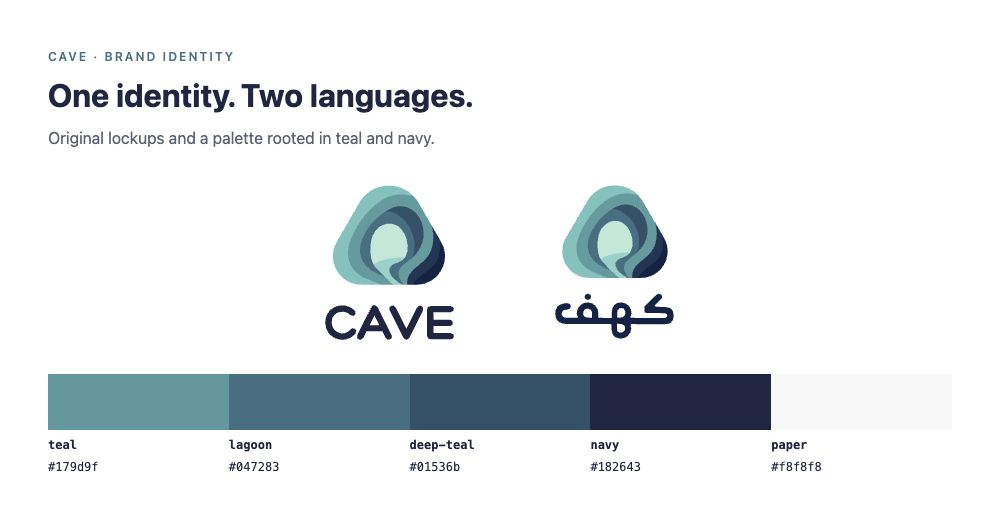
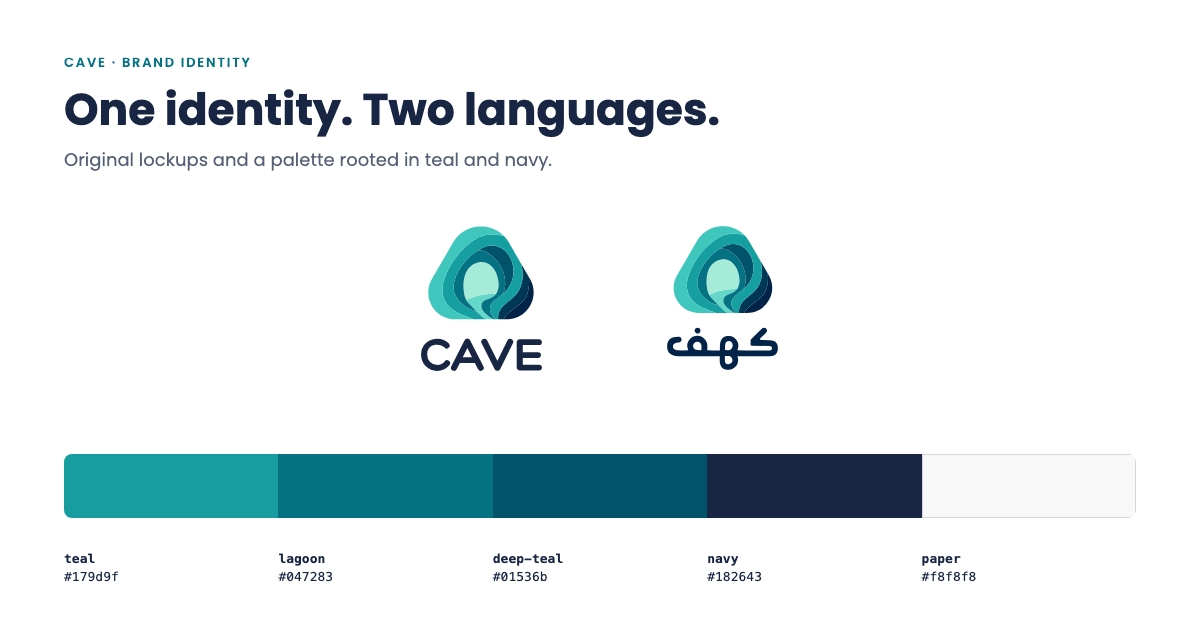
fix(brand): keep Hero out of deploys, add CSP and social card, fix /ar URLs
- firebase.json: exclude assets/fonts/Hero.* so the unlicensed font can never be
  published (it was publicly downloadable), and send a Content-Security-Policy.
- Move the Hero display-font stack into brand.css; add scripts/sync-from-design.mjs
  (with --check) to keep tokens.css and components.css in step with the design system.
- Use /ar (no trailing slash) in canonical, hreflang, nav and sitemap; /ar/ redirected.
- Add Open Graph and Twitter image tags with a 1200x630 social card.
- Re-render the README overview image from the original SVGs and real token colours;
  the old image showed desaturated colours that did not match the palette.

diff --git a/ar/index.html b/ar/index.html
@@ -5,12 +5,21 @@
 <meta name="viewport" content="width=device-width,initial-scale=1">
 <title>هوية كهف | الشعارات والألوان والخطوط والقواعد</title>
 <meta name="description" content="شعار كهف ورمزه وأيقوناته ونقوشه وألوانه، مع قواعد استخدامها، بالعربية والإنجليزية.">
-<link rel="canonical" href="https://brand.cave.technology/ar/">
+<link rel="canonical" href="https://brand.cave.technology/ar">
 <link rel="alternate" hreflang="en" href="https://brand.cave.technology/">
-<link rel="alternate" hreflang="ar" href="https://brand.cave.technology/ar/">
+<link rel="alternate" hreflang="ar" href="https://brand.cave.technology/ar">
 <link rel="alternate" hreflang="x-default" href="https://brand.cave.technology/">
 <meta property="og:title" content="هوية كهف | الشعارات والألوان والخطوط والقواعد">
 <meta property="og:description" content="شعار كهف ورمزه وأيقوناته ونقوشه وألوانه، مع قواعد استخدامها، بالعربية والإنجليزية.">
+<meta property="og:type" content="website">
+<meta property="og:url" content="https://brand.cave.technology/ar">
+<meta property="og:locale" content="ar">
+<meta property="og:image" content="https://brand.cave.technology/assets/social/cave-brand-og.png">
+<meta property="og:image:width" content="1200">
+<meta property="og:image:height" content="630">
+<meta property="og:image:alt" content="شعار كهف بالعربية والإنجليزية فوق لوحة ألوان الفيروزي واللازوردي والفيروزي الداكن والكحلي والورقي">
+<meta name="twitter:card" content="summary_large_image">
+<meta name="twitter:image" content="https://brand.cave.technology/assets/social/cave-brand-og.png">
 <meta name="theme-color" content="#182643">
 <link rel="icon" type="image/svg+xml" href="/assets/logos/cave-symbol-color.svg">
 <script src="/assets/js/theme.js?v=2"></script>
@@ -39,7 +48,7 @@
 </div></header>
 <main class="wrap" id="main">
 <div class="hero"><h1>هوية كهف</h1><p>شعار كهف ورمزه وألوانه وقواعد استخدامها. الملفات هنا للإشارة إلى كهف. أما البرمجيات المستخدمة في بناء الواجهات فمكانها موقع نظام التصميم.</p>
-<div class="actions"><a class="cv-btn cv-btn--primary cv-btn--lg" href="/kit/cave-brand-kit.zip" download>حمّل حزمة الهوية</a><a class="cv-btn cv-btn--secondary cv-btn--lg" href="https://design.cave.technology/ar/">نظام التصميم</a></div></div>
+<div class="actions"><a class="cv-btn cv-btn--primary cv-btn--lg" href="/kit/cave-brand-kit.zip" download>حمّل حزمة الهوية</a><a class="cv-btn cv-btn--secondary cv-btn--lg" href="https://design.cave.technology/ar">نظام التصميم</a></div></div>
 <section id="logos"><h2>الشعارات</h2><p class="lead">استخدم الملفات كما هي. النسخة الملوّنة على الأبيض أو الورقي فقط، والنسخة البيضاء على التركواز أو الكحلي أو الفحمي. استخدم الشعار العربي على الأسطح العربية والإنجليزي على الأسطح الإنجليزية.</p><ul class="grounds"><li class="ground g-white"><img src="/assets/logos/cave-logo-en-color-compact.svg" alt="إنجليزي، ملوّن" height="120"><small>إنجليزي، ملوّن</small><a href="/assets/logos/cave-logo-en-color-compact.svg" download>نزّل SVG</a></li><li class="ground g-navy"><img src="/assets/logos/cave-logo-en-white-compact.svg" alt="إنجليزي، أبيض" height="120"><small>إنجليزي، أبيض</small><a href="/assets/logos/cave-logo-en-white-compact.svg" download>نزّل SVG</a></li><li class="ground g-paper"><img src="/assets/logos/cave-logo-ar-color-compact.svg" alt="عربي، ملوّن" height="120"><small>عربي، ملوّن</small><a href="/assets/logos/cave-logo-ar-color-compact.svg" download>نزّل SVG</a></li><li class="ground g-charcoal"><img src="/assets/logos/cave-logo-ar-white-compact.svg" alt="عربي، أبيض" height="120"><small>عربي، أبيض</small><a href="/assets/logos/cave-logo-ar-white-compact.svg" download>نزّل SVG</a></li><li class="ground g-white"><img src="/assets/logos/cave-symbol-color.svg" alt="الرمز، ملوّن" height="120"><small>الرمز، ملوّن</small><a href="/assets/logos/cave-symbol-color.svg" download>نزّل SVG</a></li><li class="ground g-teal"><img src="/assets/logos/cave-symbol-white.svg" alt="الرمز، أبيض" height="120"><small>الرمز، أبيض</small><a href="/assets/logos/cave-symbol-white.svg" download>نزّل SVG</a></li></ul></section>
 <section id="rules"><h2>قواعد استخدام الشعار</h2><div class="cols"><div><h3>افعل</h3><ul class="rules do"><li>استخدم الملفات كما هي. الكلمة الشعارية خطّ مرسوم يدويًا ومحوّل إلى خطوط خارجية.</li><li>ضع الشعار الملوّن على الأبيض أو الورقي فقط، وضع الشعار الأبيض على التركواز أو الكحلي أو الفحمي فقط.</li><li>اترك حوله مساحة كافية. لا تحدد الهوية مساحة فراغ ثابتة ولا حدًّا أدنى للحجم، فاسأل قبل أن تحدد أيًّا منهما.</li><li>الرمز وحده للصور الشخصية والأيقونات.</li></ul></div><div><h3>لا تفعل</h3><ul class="rules dont"><li>أن تعيد كتابة الاسم بخط، أو ترسم الرمز من جديد، أو تغيّر لون أي طبقة.</li><li>أن تضيف ظلًّا أو تدرّجًا أو إطارًا، أو تمطّه أو تديره.</li><li>أن تضع الشعار الملوّن على لون أو صورة فوتوغرافية.</li><li>أن تضيف السطر المحذوف «Software Solutions».</li><li>أن تستخدمه بحيث يبدو أن كهف تزكّي منتجك أو صنعته.</li></ul></div></div></section>
 <section id="name"><h2>الاسم والنبرة</h2><p class="lead">الشركة اسمها كهف. لكل منتج اسمه، والأسماء العربية ثابتة.</p><div class="tcard"><table><thead><tr><th>الاسم</th><th>بالإنجليزية</th><th>ملاحظات</th></tr></thead><tbody><tr><td>كهف</td><td>Cave</td><td>الشركة وحساب كهف. لا تكتب «Cave Software Solutions» أبدًا.</td></tr><tr><td>متاجر كهف</td><td>Cave Shops</td><td>منتج الويب للمتاجر الإلكترونية.</td></tr><tr><td>نقطة مبيع كهف</td><td>Cave POS</td><td>نقطة المبيع المكتبية وللجوال. في النص العربي لا تكتب «Cave POS» ولا «POS».</td></tr></tbody></table></div><ul class="rules" style="margin-top:var(--space-3)"><li>اكتب جملًا بسيطة تقريرية تبدأ بالفائدة ثم الدليل.</li><li>استخدم الكهف والطبقات والنهر استعارات، لأن الرمز مبني منها.</li><li>لا تستخدم الرموز التعبيرية.</li></ul></section>

diff --git a/assets/css/tokens.css b/assets/css/tokens.css
@@ -1,5 +1,7 @@
 /* Cave design tokens. Generated from tokens.json. Do not edit by hand. */
-:root{--teal:#179d9f;--teal-light:#51bab6;--seafoam:#3fc7bd;--mint:#65d7c9;--mist:#a6ebd8;--lagoon:#047283;--deep-teal:#01536b;--abyss:#003755;--midnight:#002347;--navy:#182643;--charcoal:#1d1d1b;--white:#ffffff;--paper:#f8f8f8;--slate:#a9b3c0;--coral:#f08868;--lime:#a3c962;--magenta:#8f2462;--plum:#5e256f;--snow:#f7f9fa;--font-display:"Hero", "Poppins", system-ui, sans-serif;--font-sans:"Poppins", system-ui, sans-serif;--font-ar-display:"Almarai", "Poppins", system-ui, sans-serif;--font-ar-text:"Almarai", "Poppins", system-ui, sans-serif;--space-1:4px;--space-2:8px;--space-3:16px;--space-4:24px;--space-5:40px;--space-6:64px;--space-12:12px;--space-32:32px;--space-48:48px;--radius-sm:8px;--radius-control:10px;--radius-md:14px;--radius-lg:18px;--radius-xl:32px;--radius-pill:9999px;--duration-fast:150ms;--duration-base:200ms;--easing-standard:cubic-bezier(0.2,0,0,1);--z-sticky:100;--z-dropdown:1000;--z-modal:1100;--z-toast:1200;}
+/* Cave design tokens. Generated from tokens.json. Do not edit by hand. */
+:root{--teal:#179d9f;--teal-light:#51bab6;--seafoam:#3fc7bd;--mint:#65d7c9;--mist:#a6ebd8;--lagoon:#047283;--deep-teal:#01536b;--abyss:#003755;--midnight:#002347;--navy:#182643;--charcoal:#1d1d1b;--white:#ffffff;--paper:#f8f8f8;--slate:#a9b3c0;--coral:#f08868;--lime:#a3c962;--magenta:#8f2462;--plum:#5e256f;--snow:#f7f9fa;--font-display:"Poppins", system-ui, sans-serif;--font-sans:"Poppins", system-ui, sans-serif;--font-ar-display:"Almarai", "Poppins", system-ui, sans-serif;--font-ar-text:"Almarai", "Poppins", system-ui, sans-serif;--space-1:4px;--space-2:8px;--space-3:16px;--space-4:24px;--space-5:40px;--space-6:64px;--space-12:12px;--space-32:32px;--space-48:48px;--radius-sm:8px;--radius-control:10px;--radius-md:14px;--radius-lg:18px;--radius-xl:32px;--radius-pill:9999px;--duration-fast:150ms;--duration-base:200ms;--easing-standard:cubic-bezier(0.2,0,0,1);--z-sticky:100;--z-dropdown:1000;--z-modal:1100;--z-toast:1200;}
 :root,[data-theme="light"]{color-scheme:light;--surface:var(--paper);--surface-raised:var(--white);--surface-inverse:var(--navy);--ink:var(--navy);--ink-muted:rgba(24,38,67,0.74);--ink-inverse:var(--white);--border:rgba(24,38,67,0.16);--border-strong:rgba(24,38,67,0.6);--accent:var(--teal);--on-accent:var(--navy);--accent-text:var(--lagoon);--focus-ring:var(--lagoon);--accent-strong:var(--lagoon);--on-accent-strong:var(--white);--accent-strong-hover:var(--deep-teal);--accent-soft:rgba(166,235,216,0.45);--accent-soft-border:rgba(4,114,131,0.3);--danger:#c53030;--on-danger:var(--white);--danger-hover:#9b2c2c;--surface-sunken:rgba(24,38,67,0.04);--surface-hover:rgba(24,38,67,0.06);--scrim:rgba(24,38,67,0.5);--disabled-bg:rgba(24,38,67,0.08);--disabled-fg:rgba(24,38,67,0.45);--success-bg:#f0fff4;--success-fg:#276749;--success-border:#c6f6d5;--success-solid:#38a169;--warning-bg:#fffaf0;--warning-fg:#9c4221;--warning-border:#feebc8;--warning-solid:#dd6b20;--error-bg:#fff5f5;--error-fg:#c53030;--error-border:#fed7d7;--error-solid:#e53e3e;--info-bg:#ebf8ff;--info-fg:#2c5282;--info-border:#bee3f8;--info-solid:#3182ce;--chart-1:#047283;--chart-2:#8f2462;--chart-3:#a85f49;--chart-4:#182643;--shadow-menu:0 4px 12px rgba(24,38,67,0.12);--shadow-overlay:0 12px 32px rgba(24,38,67,0.16);}
 [data-theme="dark"]{color-scheme:dark;--surface:var(--navy);--surface-raised:rgba(255,255,255,0.06);--surface-inverse:var(--paper);--ink:var(--white);--ink-muted:rgba(255,255,255,0.74);--ink-inverse:var(--navy);--border:rgba(255,255,255,0.16);--border-strong:rgba(255,255,255,0.55);--accent:var(--teal);--on-accent:var(--navy);--accent-text:var(--seafoam);--focus-ring:var(--seafoam);--accent-strong:var(--teal);--on-accent-strong:var(--navy);--accent-strong-hover:var(--seafoam);--accent-soft:rgba(63,199,189,0.14);--accent-soft-border:rgba(63,199,189,0.3);--danger:#f56565;--on-danger:var(--navy);--danger-hover:#fc8181;--surface-sunken:rgba(255,255,255,0.04);--surface-hover:rgba(255,255,255,0.08);--scrim:rgba(0,0,0,0.6);--disabled-bg:rgba(255,255,255,0.1);--disabled-fg:rgba(255,255,255,0.45);--success-bg:rgba(72,187,120,0.14);--success-fg:#9ae6b4;--success-border:rgba(72,187,120,0.28);--success-solid:#48bb78;--warning-bg:rgba(237,137,54,0.14);--warning-fg:#fbd38d;--warning-border:rgba(237,137,54,0.28);--warning-solid:#ed8936;--error-bg:rgba(245,101,101,0.14);--error-fg:#feb2b2;--error-border:rgba(245,101,101,0.28);--error-solid:#f56565;--info-bg:rgba(66,153,225,0.14);--info-fg:#90cdf4;--info-border:rgba(66,153,225,0.28);--info-solid:#4299e1;--chart-1:#3fc7bd;--chart-2:#f08868;--chart-3:#a3c962;--chart-4:#a6ebd8;--shadow-menu:0 4px 12px rgba(0,0,0,0.5);--shadow-overlay:0 12px 32px rgba(0,0,0,0.6);}
 [data-theme="black"]{color-scheme:dark;--surface:var(--charcoal);--surface-raised:rgba(255,255,255,0.06);--surface-inverse:var(--paper);--ink:var(--white);--ink-muted:rgba(255,255,255,0.74);--ink-inverse:var(--charcoal);--border:rgba(255,255,255,0.16);--border-strong:rgba(255,255,255,0.55);--accent:var(--teal);--on-accent:var(--charcoal);--accent-text:var(--seafoam);--focus-ring:var(--seafoam);--accent-strong:var(--teal);--on-accent-strong:var(--charcoal);--accent-strong-hover:var(--seafoam);--accent-soft:rgba(63,199,189,0.14);--accent-soft-border:rgba(63,199,189,0.3);--danger:#f56565;--on-danger:var(--charcoal);--danger-hover:#fc8181;--surface-sunken:rgba(255,255,255,0.04);--surface-hover:rgba(255,255,255,0.08);--scrim:rgba(0,0,0,0.7);--disabled-bg:rgba(255,255,255,0.1);--disabled-fg:rgba(255,255,255,0.45);--success-bg:rgba(72,187,120,0.14);--success-fg:#9ae6b4;--success-border:rgba(72,187,120,0.28);--success-solid:#48bb78;--warning-bg:rgba(237,137,54,0.14);--warning-fg:#fbd38d;--warning-border:rgba(237,137,54,0.28);--warning-solid:#ed8936;--error-bg:rgba(245,101,101,0.14);--error-fg:#feb2b2;--error-border:rgba(245,101,101,0.28);--error-solid:#f56565;--info-bg:rgba(66,153,225,0.14);--info-fg:#90cdf4;--info-border:rgba(66,153,225,0.28);--info-solid:#4299e1;--chart-1:#3fc7bd;--chart-2:#f08868;--chart-3:#a3c962;--chart-4:#a6ebd8;--shadow-menu:0 4px 12px rgba(0,0,0,0.6);--shadow-overlay:0 12px 32px rgba(0,0,0,0.7);}
+

diff --git a/index.html b/index.html
@@ -7,10 +7,19 @@
 <meta name="description" content="The Cave logo, symbol, icons, patterns and colours, with the rules for using them, in English and Arabic.">
 <link rel="canonical" href="https://brand.cave.technology/">
 <link rel="alternate" hreflang="en" href="https://brand.cave.technology/">
-<link rel="alternate" hreflang="ar" href="https://brand.cave.technology/ar/">
+<link rel="alternate" hreflang="ar" href="https://brand.cave.technology/ar">
 <link rel="alternate" hreflang="x-default" href="https://brand.cave.technology/">
 <meta property="og:title" content="Cave brand | Logos, colours, fonts and rules">
 <meta property="og:description" content="The Cave logo, symbol, icons, patterns and colours, with the rules for using them, in English and Arabic.">
+<meta property="og:type" content="website">
+<meta property="og:url" content="https://brand.cave.technology/">
+<meta property="og:locale" content="en">
+<meta property="og:image" content="https://brand.cave.technology/assets/social/cave-brand-og.png">
+<meta property="og:image:width" content="1200">
+<meta property="og:image:height" content="630">
+<meta property="og:image:alt" content="The Cave logo in English and Arabic above the teal, lagoon, deep teal, navy and paper colour palette">
+<meta name="twitter:card" content="summary_large_image">
+<meta name="twitter:image" content="https://brand.cave.technology/assets/social/cave-brand-og.png">
 <meta name="theme-color" content="#182643">
 <link rel="icon" type="image/svg+xml" href="/assets/logos/cave-symbol-color.svg">
 <script src="/assets/js/theme.js?v=2"></script>
@@ -23,7 +32,7 @@
 <a class="skip-link" href="#main">Skip to content</a>
 <header class="top"><div class="wrap">
 <a class="brand" href="/"><img class="logo-light" src="/assets/logos/cave-symbol-color.svg" alt=""><img class="logo-dark" src="/assets/logos/cave-symbol-white.svg" alt=""><span>Cave brand</span></a>
-<nav class="nav" aria-label="Cave brand"><a href="#logos">Logos</a><a href="#rules">Rules</a><a href="#name">Name</a><a href="#colour">Colour</a><a href="#type">Type</a><a href="#patterns">Patterns and icons</a><a href="#licence">Licence</a><a class="lang" href="/ar/" hreflang="ar" lang="ar">العربية</a><div class="theme-picker" id="theme-picker" data-label="Theme" hidden>
+<nav class="nav" aria-label="Cave brand"><a href="#logos">Logos</a><a href="#rules">Rules</a><a href="#name">Name</a><a href="#colour">Colour</a><a href="#type">Type</a><a href="#patterns">Patterns and icons</a><a href="#licence">Licence</a><a class="lang" href="/ar" hreflang="ar" lang="ar">العربية</a><div class="theme-picker" id="theme-picker" data-label="Theme" hidden>
 <button class="theme-button" id="theme-button" type="button" aria-label="Theme" aria-expanded="false" aria-controls="theme-options">
 <svg data-mode="system" viewBox="0 0 24 24" aria-hidden="true" focusable="false"><rect x="3" y="3" width="18" height="13" rx="2"/><path d="M8 21h8m-4-5v5"/></svg>
 <svg data-mode="light" viewBox="0 0 24 24" aria-hidden="true" focusable="false" hidden><circle cx="12" cy="12" r="4"/><path d="M12 2v2m0 16v2M2 12h2m16 0h2M5 5l1.5 1.5m11 11L19 19M5 19l1.5-1.5m11-11L19 5"/></svg>

diff --git a/assets/css/brand.css b/assets/css/brand.css
@@ -1,3 +1,5 @@
+/* Brand-only: Hero is the display face when a licensed copy is present locally; it is never served in production, so headings fall back to Poppins. */
+:root{--font-display:"Hero","Poppins",system-ui,sans-serif}
 *,*::before,*::after{box-sizing:border-box}
 html{-webkit-text-size-adjust:100%;scroll-behavior:smooth}
 @media (prefers-reduced-motion:reduce){html{scroll-behavior:auto}}

diff --git a/README.md b/README.md
@@ -46,7 +46,7 @@ The site is plain static files: no dependency installation or build step is requ
 python3 -m http.server 8080 --bind 127.0.0.1
 ```
 
-Open `http://127.0.0.1:8080/` for English or `http://127.0.0.1:8080/ar/` for Arabic. Run the server from the repository root so asset URLs resolve correctly.
+Open `http://127.0.0.1:8080/` for English or `http://127.0.0.1:8080/ar/` for Arabic (in production the Arabic page is `/ar`, without a trailing slash). Run the server from the repository root so asset URLs resolve correctly.
 
 ## Usage and licensing
 
@@ -67,7 +67,8 @@ Poppins and Almarai retain their SIL OFL terms. Hero and Blue Ocean are licensed
 | --- | --- |
 | `index.html` · `ar/index.html` | Hand-edited pages; keep both languages in step |
 | `assets/logos/` · `assets/icons/` · `assets/patterns/` | Original SVG artwork |
-| `assets/css/tokens.css` · `assets/css/components.css` | Copies of generated design-system styles |
+| `assets/css/tokens.css` · `assets/css/components.css` | Copies of design-system output (`tokens.json` and `source/components/bundle.css`); refresh with `node scripts/sync-from-design.mjs`, verify with `--check` |
+| `scripts/` | Maintainer tools; excluded from hosting |
 | `assets/css/brand.css` · `assets/css/fonts.css` | Brand-site styling and typography |
 | `assets/js/` | Theme selection and brand tools |
 | `kit/cave-brand-kit.zip` | Downloadable assets with `LICENSE.txt` |
@@ -82,11 +83,11 @@ Committed site tools provide approved background previews, transparent 1600px PN
 
 Keep the supplied SVGs unchanged. When an authorized asset changes, rebuild the kit with the three asset folders and its existing licence text inside `cave-brand-kit/`. Fonts are not offered as part of the kit.
 
-`Hero.otf` is intentionally absent from Git because no redistribution licence is provided; headings fall back to Poppins. Only use a separately licensed local copy when authorized. The old letterhead images and presentation PDF remain excluded because they contain retired information. Product icons are not part of this kit.
+`Hero.otf` is intentionally absent from Git because no redistribution licence is provided, and `firebase.json` excludes `assets/fonts/Hero.*` from every deploy so a local copy can never be published; production headings use Poppins (a missing Hero file is a harmless 404 on the font request). Only use a separately licensed local copy when authorized. The old letterhead images and presentation PDF remain excluded because they contain retired information. Product icons are not part of this kit.
 
 ### Hosting
 
-`firebase.json` serves the repository directly. The configured Firebase project and Hosting site are `cave-brand-kit`; the custom domain is `brand.cave.technology`. Deployment requires separate owner approval. This documentation change does not deploy the website.
+`firebase.json` serves the repository directly. The configured Firebase project and Hosting site are `cave-brand-kit`; the custom domain is `brand.cave.technology`. Responses carry a Content-Security-Policy (scripts, fonts and images from this origin only; inline styles allowed for the few `style` attributes). Deployment requires separate owner approval. This documentation change does not deploy the website.
 
 </details>
 

diff --git a/docs/readme-assets/NOTICE.md b/docs/readme-assets/NOTICE.md
@@ -1,7 +1,7 @@
 # README artwork
 
-`brand-overview.png` is a documentation composition of the repository's original English and Arabic full-colour SVG lockups and palette values. Logos are rendered without redrawing, recolouring, cropping or changing their proportions, on the approved white background.
+`brand-overview.png` (also published as the social card `assets/social/cave-brand-og.png`) is a documentation composition of the repository's original English and Arabic full-colour SVG lockups and palette values. Logos are rendered without redrawing, recolouring, cropping or changing their proportions, on the approved white background. It is rendered in Chromium from the unmodified SVGs and the colours in `assets/css/tokens.css`. An earlier version showed desaturated logos and swatches (teal rendered as `#65979e` instead of `#179d9f`); this version was re-rendered and the swatch colours were checked against the tokens.
 
-Sources: `assets/logos/cave-logo-en-color-compact.svg`, `assets/logos/cave-logo-ar-color-compact.svg` and the palette in `index.html` at base commit `c48dff44191f63a6a4396bf03e3844da8e43e30f`.
+Sources: `assets/logos/cave-logo-en-color-compact.svg`, `assets/logos/cave-logo-ar-color-compact.svg` and the palette in `assets/css/tokens.css`.
 
 The Cave marks retain the existing proprietary brand terms in the kit's `LICENSE.txt` and the brand guide. This composition grants no additional rights. No runtime assets or licences are changed.
